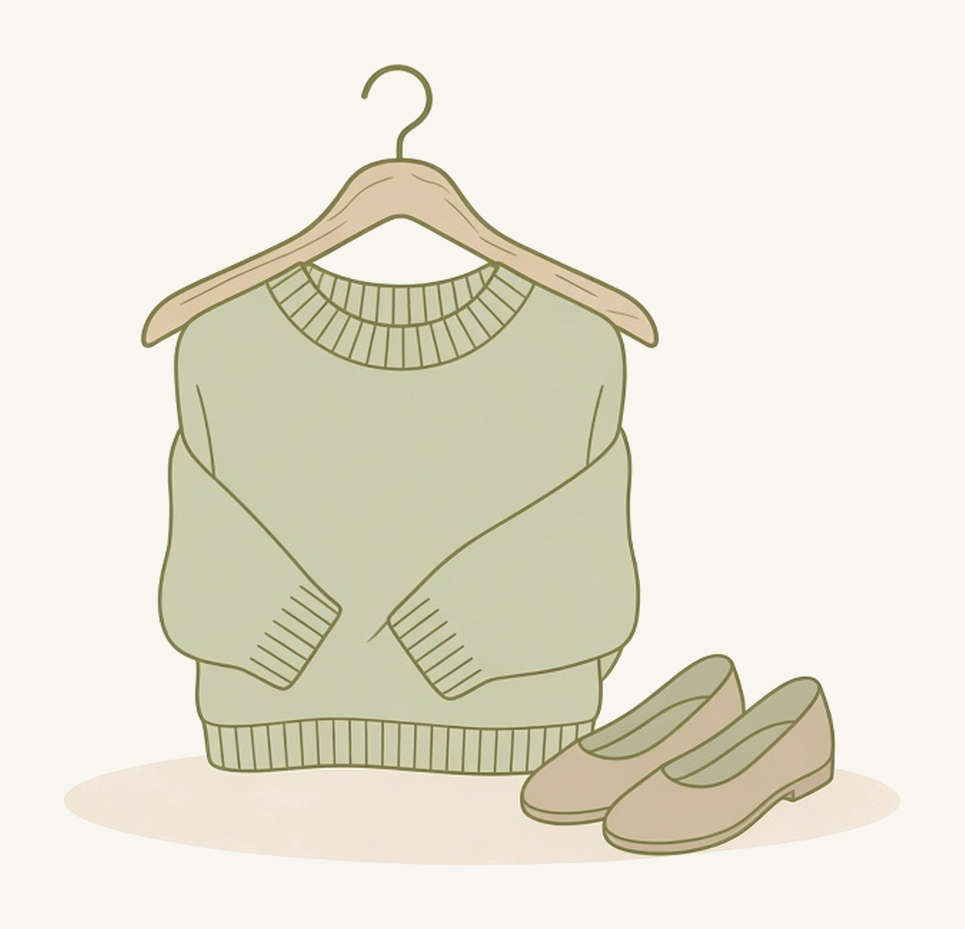
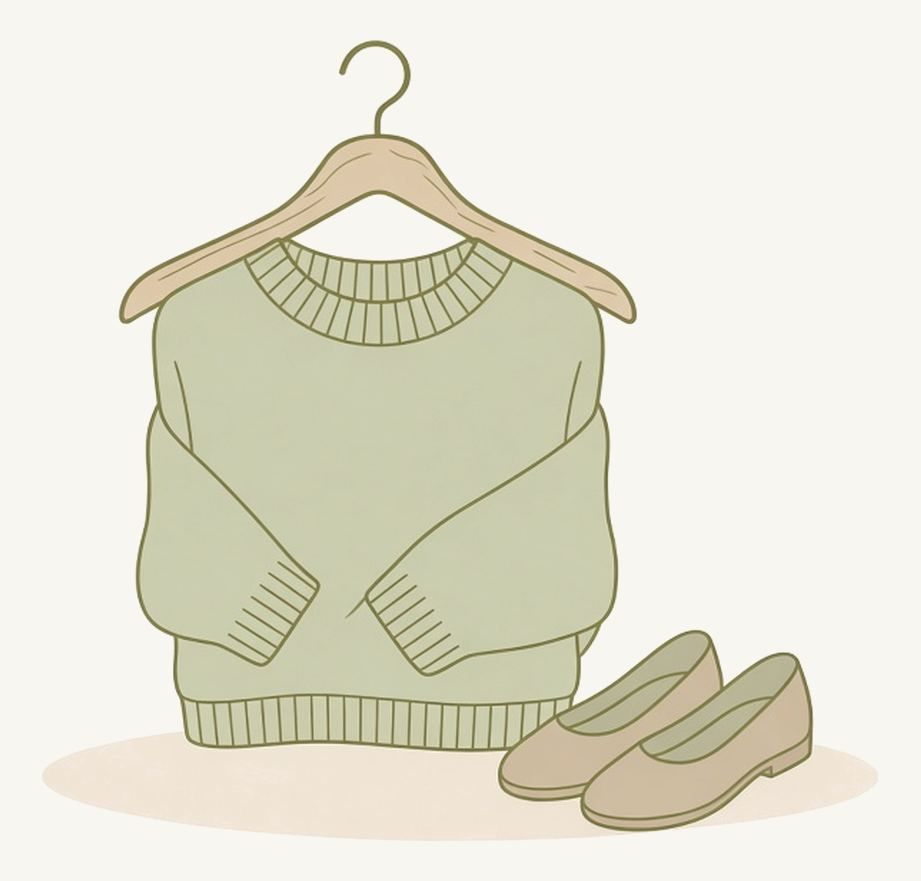
fix(mobile-rn): scale the onboarding slides to the screen and fill the slot
Size the illustration from the viewport instead of a fixed 260px, make
each slide fill the pager so the block is truly centred, use the
typography and colour tokens rather than raw values, and crop the artwork
to its subject so it fills the slot instead of floating in margin.

diff --git a/mobile-rn/app/(auth)/welcome.tsx b/mobile-rn/app/(auth)/welcome.tsx
@@ -18,9 +18,12 @@ import { onboarding } from "~/constants";
 
 /** Landing/onboarding screen shown to signed-out users. */
 export default function WelcomeScreen() {
-  const { width: windowWidth } = useWindowDimensions();
+  const { width: windowWidth, height: windowHeight } = useWindowDimensions();
   // On web the app is confined to a 430px phone column (see PhoneFrame).
   const width = Platform.OS === "web" ? Math.min(windowWidth, 430) : windowWidth;
+  // Let the illustration take a screen-proportional share of the slide rather
+  // than a fixed height, so short phones don't crowd and tall ones don't gap.
+  const artHeight = Math.min(Math.round(windowHeight * 0.32), 320);
   const scrollRef = useRef<ScrollView>(null);
   const [activeIndex, setActiveIndex] = useState(0);
 
@@ -49,29 +52,35 @@ export default function WelcomeScreen() {
         onScroll={onScroll}
         scrollEventThrottle={16}
         className="flex-1"
+        contentContainerStyle={{ flexGrow: 1 }}
       >
         {onboarding.map((slide) => (
           <View
             key={slide.id}
-            style={{ width }}
+            style={{ width, height: "100%" }}
             className="items-center justify-center px-8"
           >
             <Image
               source={slide.image}
               resizeMode="contain"
-              style={{ width: "100%", height: 260 }}
+              accessibilityLabel={slide.title}
+              style={{ width: "100%", height: artHeight }}
             />
-            <Text className="mt-10 text-center text-[26px] font-bold text-ink">
+            <Text className="mt-10 text-center text-heading font-bold text-wardro-text-primary">
               {slide.title}
             </Text>
-            <Text className="mt-3 text-center text-sm font-semibold text-ink-secondary">
+            <Text className="mt-3 text-center text-body text-wardro-text-secondary">
               {slide.description}
             </Text>
           </View>
         ))}
       </ScrollView>
 
-      <View className="flex-row items-center justify-center">
+      <View
+        className="flex-row items-center justify-center"
+        accessibilityRole="adjustable"
+        accessibilityLabel={`Slide ${activeIndex + 1} of ${onboarding.length}`}
+      >
         {onboarding.map((slide, index) => (
           <View
             key={slide.id}
